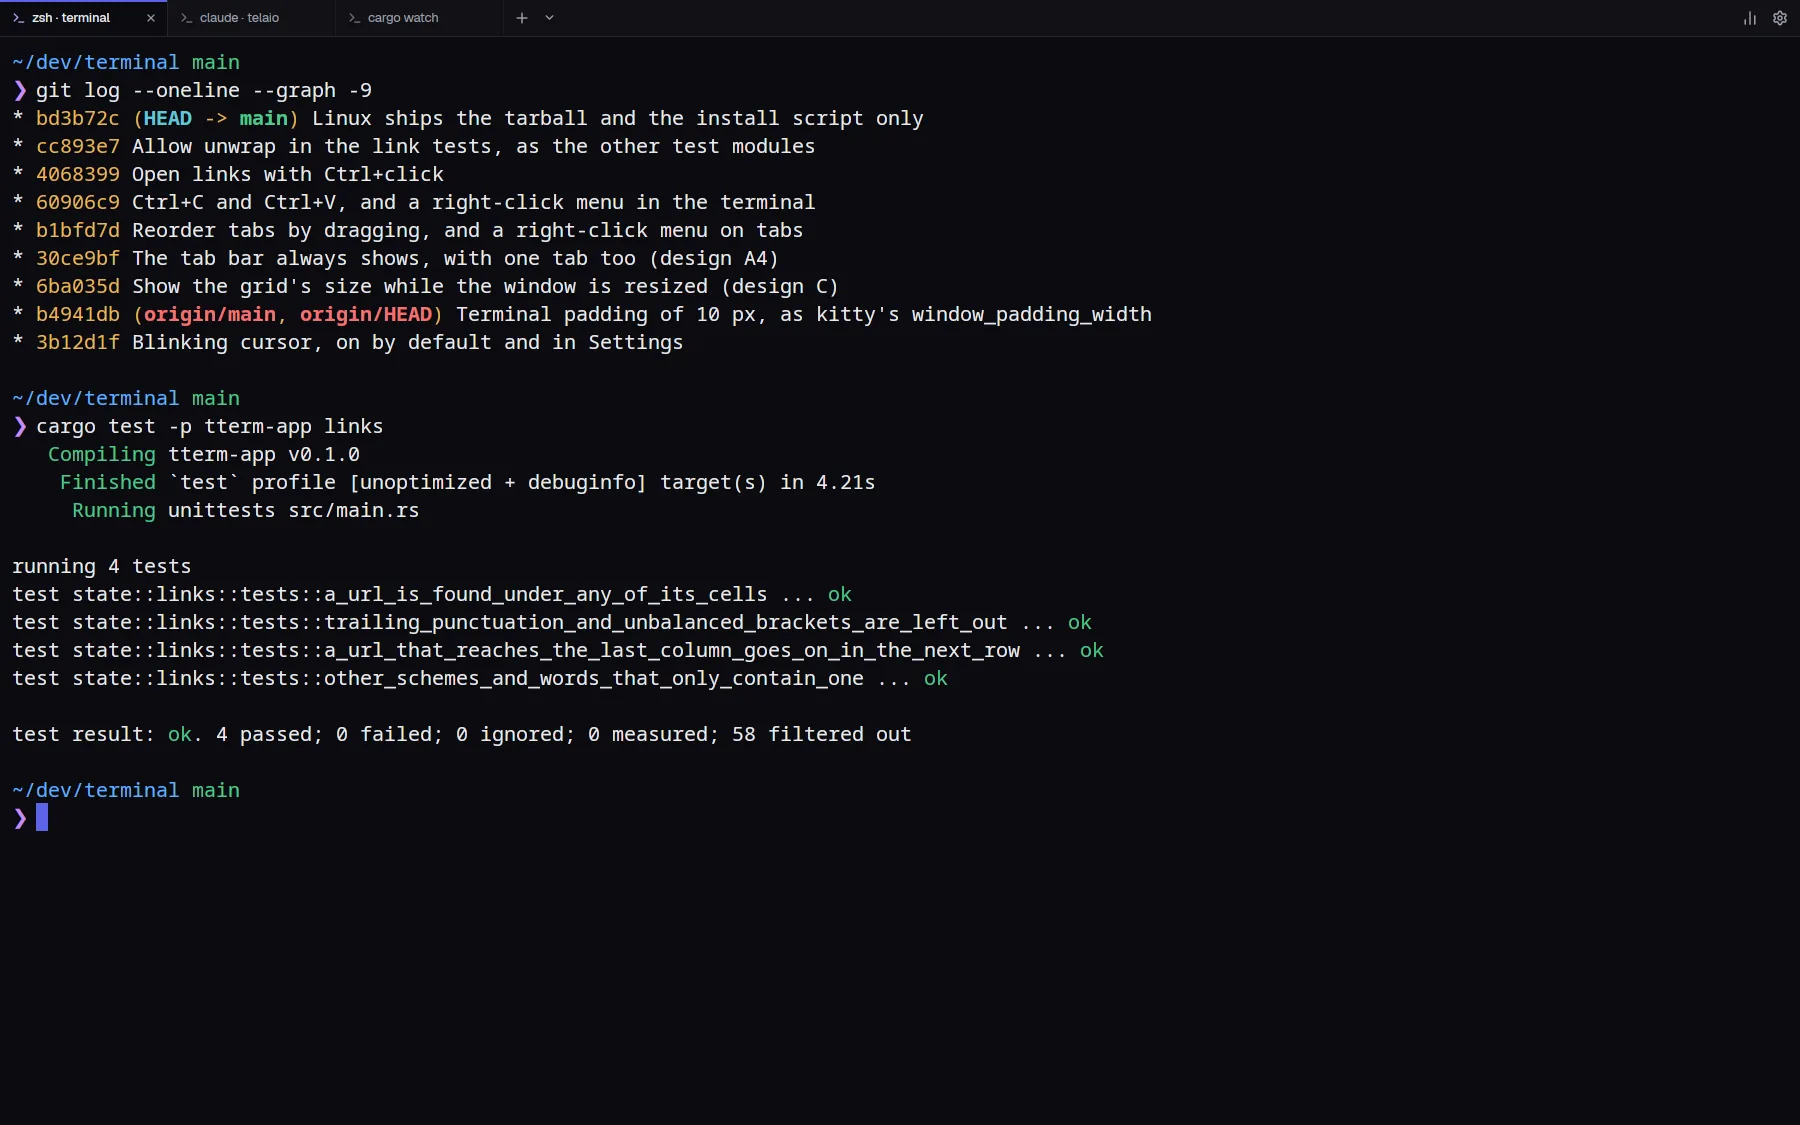
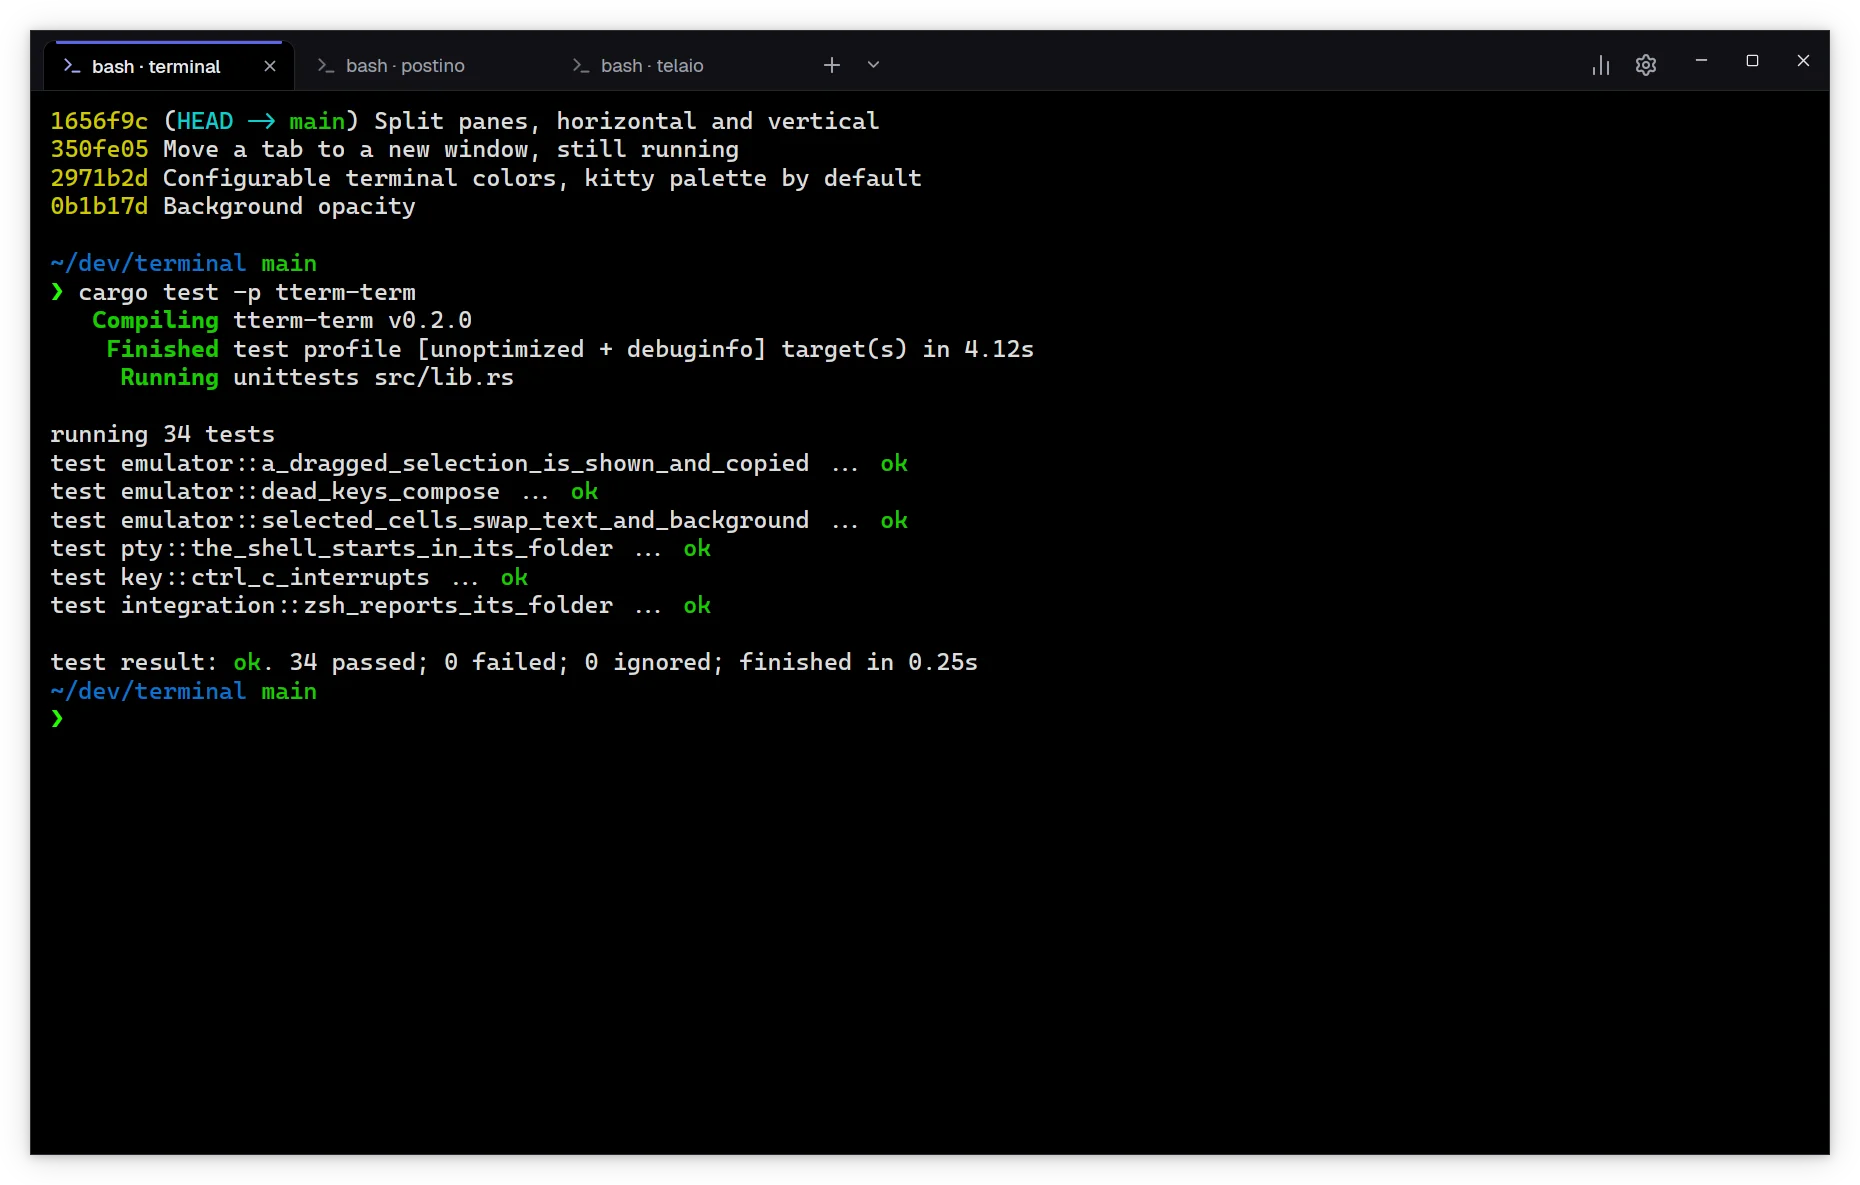
Website screenshots taken with Postino's capture script
site/screenshots/capture.sh (make screenshots) opens tterm on the desktop under
XWayland at 1.5x with a demo home and captures it with spectacle, light and
dark: the window now shows its minimize, maximize and close buttons. The demo
home keeps your user, machine and paths out of the pictures. New screenshots
for split panes and colors, with their sections on the home page.

Fixes #41

Claude-Session: https://claude.ai/code/session_01WdZr6qzpgCNcd35ksAdHsz

Changed region(s): [[0.0, 0.0, 1.0, 1.0], [0.1244, 0.6533, 0.1556, 0.6844]]

diff --git a/site/index.html b/site/index.html
@@ -96,9 +96,9 @@
 
                 <div class="hero-shot">
                     <div class="shot">
-                        <img class="light" src="img/hero-light.webp" width="1800" height="1125" fetchpriority="high"
+                        <img class="light" src="img/hero-light.webp" width="1860" height="1185" fetchpriority="high"
                             alt="The Tanis Terminal window: three tabs in the title bar, a Git log and the output of cargo test.">
-                        <img class="dark" src="img/hero-dark.webp" width="1800" height="1125" fetchpriority="high"
+                        <img class="dark" src="img/hero-dark.webp" width="1860" height="1185" fetchpriority="high"
                             alt="The Tanis Terminal window: three tabs in the title bar, a Git log and the output of cargo test.">
                     </div>
                 </div>
@@ -121,7 +121,7 @@
                 <div class="section-head">
                     <span class="kicker">Features</span>
                     <h2>Everything a terminal needs, and fast</h2>
-                    <p>Tabs in the title bar, a profile for each shell and project, links you can open, and the details that make full screen programs look right.</p>
+                    <p>Tabs in the title bar, split panes, a profile for each shell and project, your own colors, and the details that make full screen programs look right.</p>
                 </div>
 
                 <div class="features">
@@ -138,13 +138,51 @@
                             </div>
                         </div>
                         <div class="shot">
-                            <img class="light" src="img/profiles-light.webp" width="1800" height="1125" loading="lazy"
+                            <img class="light" src="img/profiles-light.webp" width="1860" height="1185" loading="lazy"
                                 alt="The profiles menu open under the tab bar: the detected shells and three profiles of the user, each with its shortcut.">
-                            <img class="dark" src="img/profiles-dark.webp" width="1800" height="1125" loading="lazy"
+                            <img class="dark" src="img/profiles-dark.webp" width="1860" height="1185" loading="lazy"
                                 alt="The profiles menu open under the tab bar: the detected shells and three profiles of the user, each with its shortcut.">
                         </div>
                     </article>
 
+                    <article class="feature">
+                        <div class="copy">
+                            <h3>Split panes, and tabs that move</h3>
+                            <div class="text">
+                                <p>Split a tab side by side or stacked, with the shortcuts of Windows Terminal. Drag a tab out of the window and it keeps running in a window of its own.</p>
+                                <ul class="checks">
+                                    <li><kbd>Alt</kbd> <kbd>Shift</kbd> <kbd>+</kbd> and <kbd>-</kbd> split, <kbd>Alt</kbd> and the arrows move between panes</li>
+                                    <li>Drag the line between two panes to resize them</li>
+                                    <li><kbd>Ctrl</kbd> <kbd>Shift</kbd> <kbd>N</kbd> moves a tab to a new window</li>
+                                </ul>
+                            </div>
+                        </div>
+                        <div class="shot">
+                            <img class="light" src="img/panes-light.webp" width="1860" height="1185" loading="lazy"
+                                alt="A tab split in three panes: one on the left and two stacked on the right, the ones without the focus dimmed.">
+                            <img class="dark" src="img/panes-dark.webp" width="1860" height="1185" loading="lazy"
+                                alt="A tab split in three panes: one on the left and two stacked on the right, the ones without the focus dimmed.">
+                        </div>
+                    </article>
+                    <article class="feature">
+                        <div class="copy">
+                            <h3>Your colors, your font</h3>
+                            <div class="text">
+                                <p>The terminal starts with kitty's palette and CaskaydiaCove Nerd Font Mono, icons included. Change any of the 16 colors, the background, the cursor and the selection, and make the window translucent.</p>
+                                <ul class="checks">
+                                    <li>Every font gets the Nerd Font icons, installed fonts too</li>
+                                    <li>A profile can have its own font and size</li>
+                                    <li>Background opacity from 50 % to 100 %</li>
+                                </ul>
+                            </div>
+                        </div>
+                        <div class="shot">
+                            <img class="light" src="img/colors-light.webp" width="1860" height="1185" loading="lazy"
+                                alt="The Colors page of Settings: the 16 colors in two rows, the background, text, cursor and selection, and a preview.">
+                            <img class="dark" src="img/colors-dark.webp" width="1860" height="1185" loading="lazy"
+                                alt="The Colors page of Settings: the 16 colors in two rows, the background, text, cursor and selection, and a preview.">
+                        </div>
+                    </article>
                     <article class="feature">
                         <div class="copy">
                             <h3>Your coding agent's usage</h3>
@@ -158,9 +196,9 @@
                             </div>
                         </div>
                         <div class="shot">
-                            <img class="light" src="img/usage-light.webp" width="1800" height="1125" loading="lazy"
+                            <img class="light" src="img/usage-light.webp" width="1860" height="1185" loading="lazy"
                                 alt="The agent usage screen: totals of input and output tokens, tasks and time for 30 days, a bar per day and the share of each model.">
-                            <img class="dark" src="img/usage-dark.webp" width="1800" height="1125" loading="lazy"
+                            <img class="dark" src="img/usage-dark.webp" width="1860" height="1185" loading="lazy"
                                 alt="The agent usage screen: totals of input and output tokens, tasks and time for 30 days, a bar per day and the share of each model.">
                         </div>
                     </article>
@@ -203,7 +241,7 @@
                     <li class="card">
                         <span class="badge">Ctrl +</span>
                         <h3>Fonts that read well</h3>
-                        <p>Noto Sans Mono, JetBrains Mono, Cascadia Code and Fira Code come with it. Zoom with <kbd>Ctrl</kbd> <kbd>+</kbd> and <kbd>Ctrl</kbd> <kbd>-</kbd>.</p>
+                        <p>CaskaydiaCove Nerd Font Mono, JetBrains Mono, Fira Code and Noto Sans Mono come with it, and any font installed. Zoom with <kbd>Ctrl</kbd> <kbd>+</kbd> and <kbd>Ctrl</kbd> <kbd>-</kbd>.</p>
                     </li>
                     <li class="card">
                         <span class="badge">EN ES</span>

diff --git a/site/screenshots/demo/usage.py b/site/screenshots/demo/usage.py
@@ -1,0 +1,36 @@
+#!/usr/bin/env python3
+"""Writes 60 days (this period and the one before) of made up Claude Code logs under HOME/.claude/projects for the usage
+screenshot: only the fields tterm reads (usage numbers, no content)."""
+import datetime, json, os, random, re, sys
+
+home = sys.argv[1]
+random.seed(7)
+now = datetime.datetime.now(datetime.timezone.utc).replace(microsecond=0)
+models = ["claude-opus-5-5"] * 6 + ["claude-sonnet-5-5"] * 3 + ["claude-haiku-5-5"]
+for project in ["terminal", "postino", "telaio"]:
+    # Claude Code names the folder after the project's path, every other character a '-'.
+    cwd = os.path.join(home, "dev", project)
+    folder = os.path.join(home, ".claude", "projects", re.sub(r"[^A-Za-z0-9]", "-", cwd))
+    os.makedirs(folder, exist_ok=True)
+    for day in range(60):
+        if random.random() < 0.25:
+            continue
+        start = now - datetime.timedelta(days=day, hours=random.randint(1, 8))
+        session = f"{project}-{day}"
+        lines = []
+        for task in range(random.randint(1, 4)):
+            t = start + datetime.timedelta(minutes=task * 25)
+            lines.append({"type": "user", "timestamp": t.isoformat().replace("+00:00", "Z"),
+                          "sessionId": session, "message": {"role": "user", "content": "x"}})
+            for answer in range(random.randint(4, 12)):
+                t2 = t + datetime.timedelta(minutes=answer)
+                lines.append({"type": "assistant", "timestamp": t2.isoformat().replace("+00:00", "Z"),
+                              "sessionId": session,
+                              "message": {"id": f"{session}-{task}-{answer}", "model": random.choice(models),
+                                          "usage": {"input_tokens": random.randint(200, 4000),
+                                                    "cache_creation_input_tokens": random.randint(2000, 30000),
+                                                    "cache_read_input_tokens": random.randint(20000, 200000),
+                                                    "output_tokens": random.randint(300, 6000)}}})
+        with open(os.path.join(folder, session + ".jsonl"), "w") as f:
+            for line in lines:
+                f.write(json.dumps(line, separators=(",", ":")) + "\n")

diff --git a/site/screenshots/README.md b/site/screenshots/README.md
@@ -1,0 +1,28 @@
+# Website screenshots
+
+`capture.sh` regenerates the screenshots of the website into `site/img/` as WebP, one light and one
+dark version of each: `hero`, `profiles`, `usage`, `panes` and `colors`. Run it with
+`make screenshots`, or give step names to run only those (`capture.sh panes colors`), and
+`THEMES=dark` to take one theme. It is Postino's `site/screenshots/capture.sh`, adapted.
+
+## What it does
+
+- Makes a demo home in a temporary folder: three projects under `~/dev`, a `.bashrc` with a
+  short prompt (`demo/bashrc`), canned output for each project (`demo/show.sh`), a fake `claude`
+  (a copy of `sleep`, so the usage screen finds an agent running) and 60 days of made up Claude
+  Code logs (`demo/usage.py`, usage numbers only). The app runs with `HOME` set there, so no
+  path, user or machine name of yours shows.
+- Launches `target/debug/tterm` (built with `cargo build` if missing; `TTERM_BIN` picks another
+  binary) under XWayland at 1.5x, 1200 x 750, with an isolated config, state and cache, so your
+  real settings are never touched. The UI is in English, the font CaskaydiaCove Nerd Font Mono.
+- Opens what it can with the `TTERM_OPEN` debug hook (Settings, Colors), and uses `xdotool` for
+  the rest: a click on the profiles chevron and on the usage button, and the pane shortcuts.
+  Every key and click first checks that the tterm window has the focus, and aborts otherwise.
+- Captures the window with `spectacle` and converts it with ImageMagick.
+
+## Requirements
+
+- Linux, KDE Plasma on Wayland with XWayland. Click coordinates are screenshot pixels, shadow
+  included; XWayland runs at the largest display scale, read from `kscreen-doctor -o`.
+- `spectacle`, `xdotool`, `python3` and ImageMagick (`magick`) built with WebP support.
+- An unlocked screen. Do not use the keyboard or mouse while it runs (about 2 minutes).
